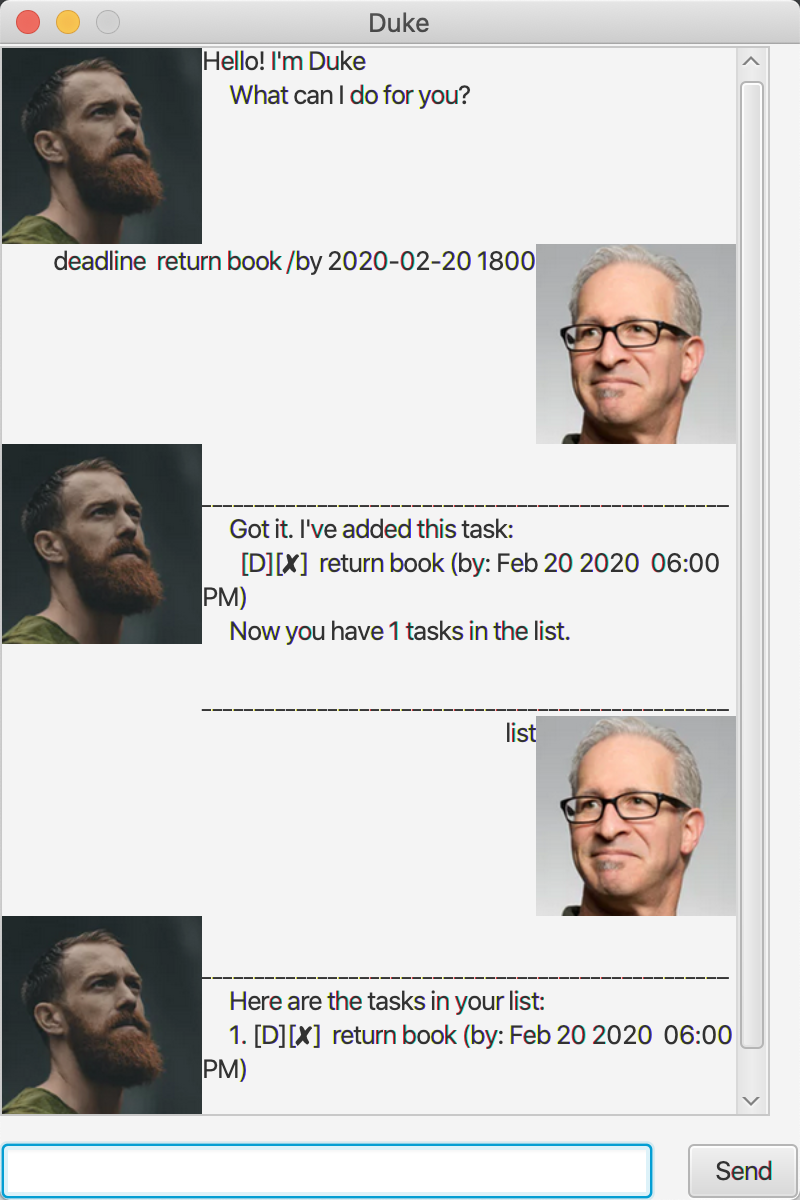
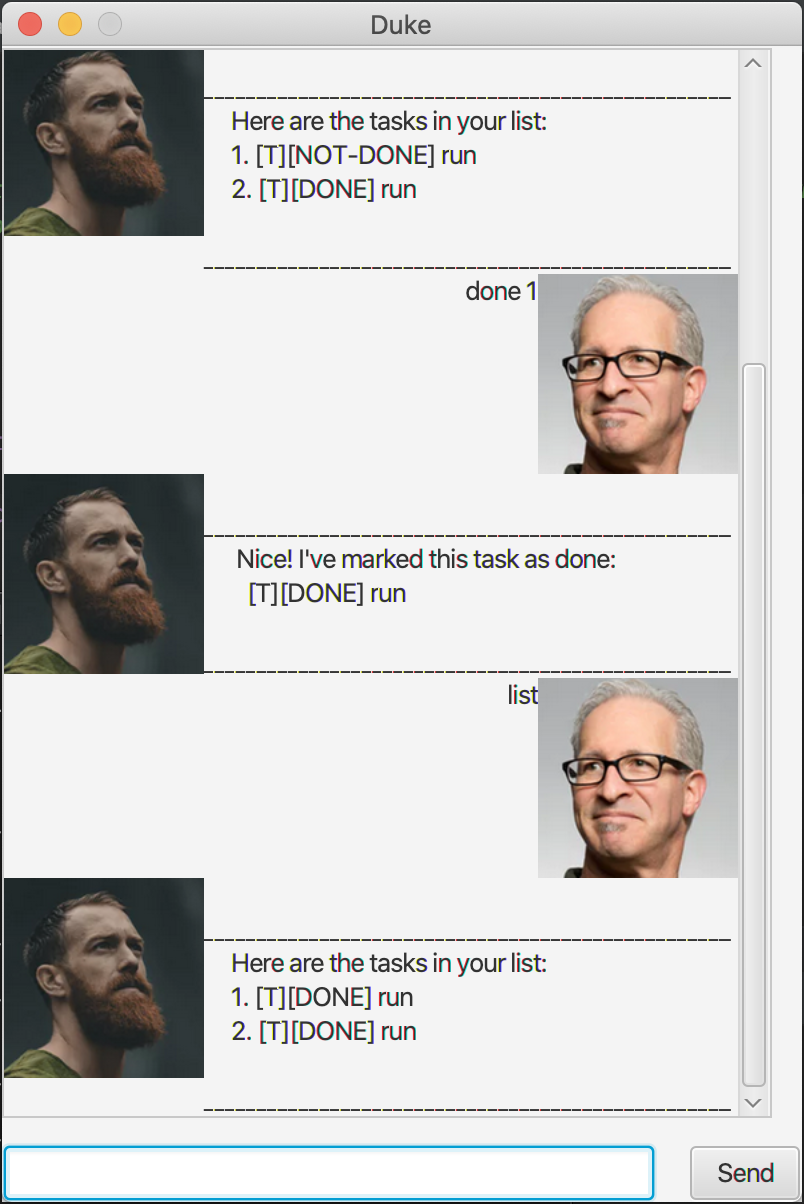
fixed bugs

Changed region(s): [[0.0, 0.0, 1.0, 1.0]]

diff --git a/src/main/java/Duke.java b/src/main/java/Duke.java
@@ -12,6 +12,7 @@ import javafx.scene.control.Label;
 import javafx.scene.image.Image;
 import javafx.scene.image.ImageView;
 import java.io.ByteArrayOutputStream;
+import java.io.IOException;
 import java.io.PrintStream;
 
 /**
@@ -37,47 +38,15 @@ public class Duke extends Application {
     public Duke() {
 
         this.taskStorage = new Storage();
-        this.tasks = new TaskList(taskStorage);
+        try {
+            this.tasks = new TaskList(taskStorage);
+        } catch (DukeException e) {
+            ui.showError(e);
+        }
         this.ui = new Ui(tasks);
         this.parser = new Parser();
     }
 
-    /**
-     * to run the chat bot.
-     */
-    public void run() {
-
-        ui.showWelcome();
-        boolean isExit = false;
-        while (!isExit) {
-            try {
-                String fullCommand = ui.readLine();
-                ui.printFormatting();
-                Command c = parser.parse(fullCommand);
-                c.execute(taskStorage, tasks, ui);
-                isExit = c.isExit();
-                taskStorage.storeToStorage(tasks.getList());
-
-            } catch (DukeException ex) {
-
-                ui.showError(ex);
-
-            } finally {
-                ui.printFormatting();
-
-            }
-        }
-
-    }
-
-    /**
-     * Main method.
-     *
-     * @param args arguments
-     */
-    public static void main(String[] args) {
-        new Duke().run();
-    }
 
     @Override
     public void start(Stage stage) {
@@ -195,15 +164,6 @@ public class Duke extends Application {
         dialogContainer.getChildren().addAll(DialogBox.getDukeDialog(dukeText, new ImageView(duke)));
 
     }
-
-    /**
-     * You should have your own function to generate a response to user input.
-     * Replace this stub with your completed method.
-     */
-    private String getResponse(String input) {
-        return "Duke heard: " + input;
-    }
-
 
 }
 

diff --git a/src/main/java/Storage.java b/src/main/java/Storage.java
@@ -1,5 +1,6 @@
 import java.io.File;
 import java.io.IOException;
+import java.io.InputStream;
 import java.nio.file.Path;
 import java.nio.file.Paths;
 import java.io.FileWriter;
@@ -26,14 +27,24 @@ public class Storage {
      * Method invoked to retrieve all information from storage to the program.
      * @return an ArrayList of tasks that was stored in the hard disk.
      */
-    public ArrayList<String> startupStorage() {
+    public ArrayList<String> startupStorage() throws DukeException {
 
         try {
             return readFile(this.path);
         } catch (IOException e) {
-            System.out.println("File not found");
+            File file = new File("data");
+            if (!file.exists()) {
+                new File("data").mkdir();
+            }
+            try {
+                new File("data/duke.txt").createNewFile();
+            } catch (IOException ex) {
+                throw new DukeException(ex.getMessage());
+            }
+
+            return new ArrayList<String>();
         }
-        return new ArrayList<String>();
+
 
     }
 
@@ -46,7 +57,8 @@ public class Storage {
         try {
             writeToHardDisk(list);
         } catch (IOException e) {
-            System.out.println("File not found");
+            File newFile = new File("./data/duke.txt");
+            System.out.println("File created");
         }
     }
 

diff --git a/src/main/java/TaskList.java b/src/main/java/TaskList.java
@@ -1,3 +1,4 @@
+import java.io.IOException;
 import java.time.LocalDate;
 import java.time.LocalTime;
 import java.time.format.DateTimeFormatter;
@@ -15,7 +16,7 @@ public class TaskList {
      * To instantiate the task list from storage, loading all tasks that are currently in the data.txt.
      * @param taskStorage storage where the copy of the task file is stored.
      */
-    public TaskList(Storage taskStorage) {
+    public TaskList(Storage taskStorage) throws DukeException {
 
         this.tasks = new ArrayList<Task>();
         this.taskStorage = taskStorage;

diff --git a/src/main/java/Task.java b/src/main/java/Task.java
@@ -54,9 +54,9 @@ public class Task {
     public String toString() {
 
         if (this.isCompleted) {
-            return ("[✔] " + this.description);
+            return ("[DONE] " + this.description);
         } else {
-            return ("[✘] " + this.description);
+            return ("[NOT-DONE] " + this.description);
         }
 
     }

diff --git a/docs/README.md b/docs/README.md
@@ -56,7 +56,7 @@ Expected outcome:
 
 `Got it, I've added this task:
 
-[T][✗] running
+[T][NOT-DONE] running
 
 Now you have 1 task(s) in the list.`
 
@@ -77,7 +77,7 @@ Expected outcome:
 
 `Got it, I've added this task:
 
-[D][✗] return book (by: Dec 1 2020 06:00)
+[D][NOT-DONE] return book (by: Dec 1 2020 06:00)
 
 Now you have 1 task(s) in the list.`
 
@@ -99,7 +99,7 @@ Expected outcome:
 
 `Got it, I've added this task:
 
-[E][✗] Concert (at: Stadium)
+[E][NOT-DONE] Concert (at: Stadium)
 
 Now you have 1 task(s) in the list.` 
 
@@ -120,7 +120,7 @@ Expected outcome:
 
 `Alright, I've added this task:
 
-[E][✗] Concert (at: Stadium)
+[E][NOT-DONE] Concert (at: Stadium)
 
 Now you have 0 task(s) in the list.`
 
@@ -141,7 +141,7 @@ Expected outcome:
 
 `Nice! I've marked this task as done:
 
-[T][✓] running`
+[T][DONE] running`
 
 ### 6.`find` - Find a task 
 
@@ -159,7 +159,7 @@ Expected outcome:
 
 `Here are the matching tasks in your list: 
 
-3.[T][✗] Have lunch
+3.[T][NOT-DONE] Have lunch
 
 `
 
@@ -179,9 +179,9 @@ Expected outcome:
 
 `Here are the tasks in your list: 
 
-1.[T][✓] running
-2.[T][✗] return book
-3.[T][✗] Have lunch 
+1.[T][DONE] running
+2.[T][NOT-DONE] return book
+3.[T][NOT-DONE] Have lunch 
 
 `
 ### 8.`reminders` - reminder for deadlines
@@ -200,8 +200,8 @@ Expected outcome:
 
 `Here are the upcoming deadline tasks in your list: 
 
-1.[D][✗] submit essay (by: Feb 10 2020 11:59PM)
-2.[D][✗] Return book (by: Jun 25 2020 06:00PM)
+1.[D][NOT-DONE] submit essay (by: Feb 10 2020 11:59PM)
+2.[D][NOT-DONE] Return book (by: Jun 25 2020 06:00PM)
 
 `
 
